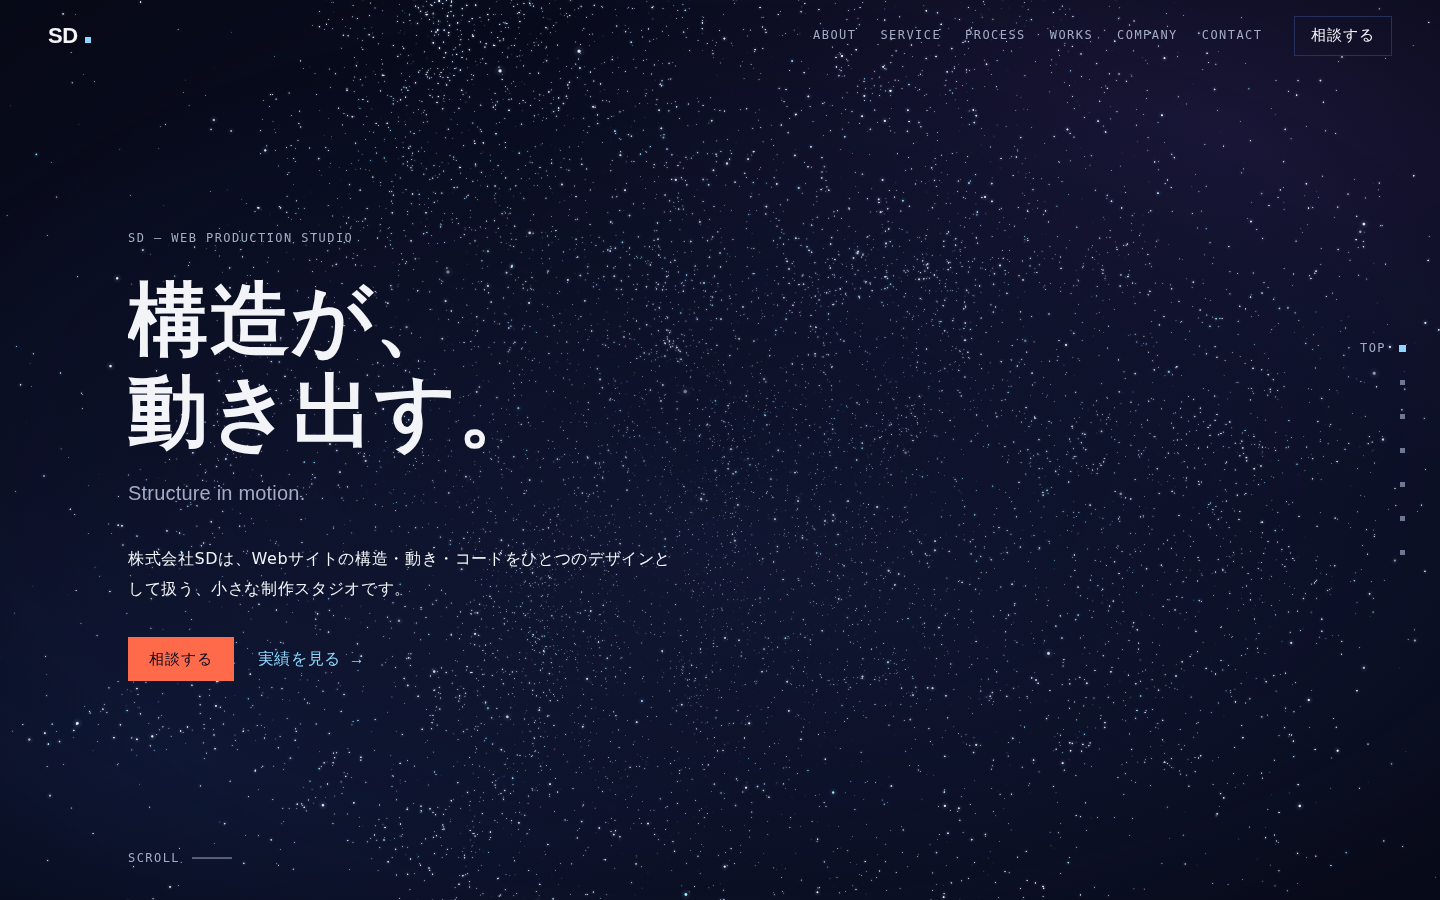
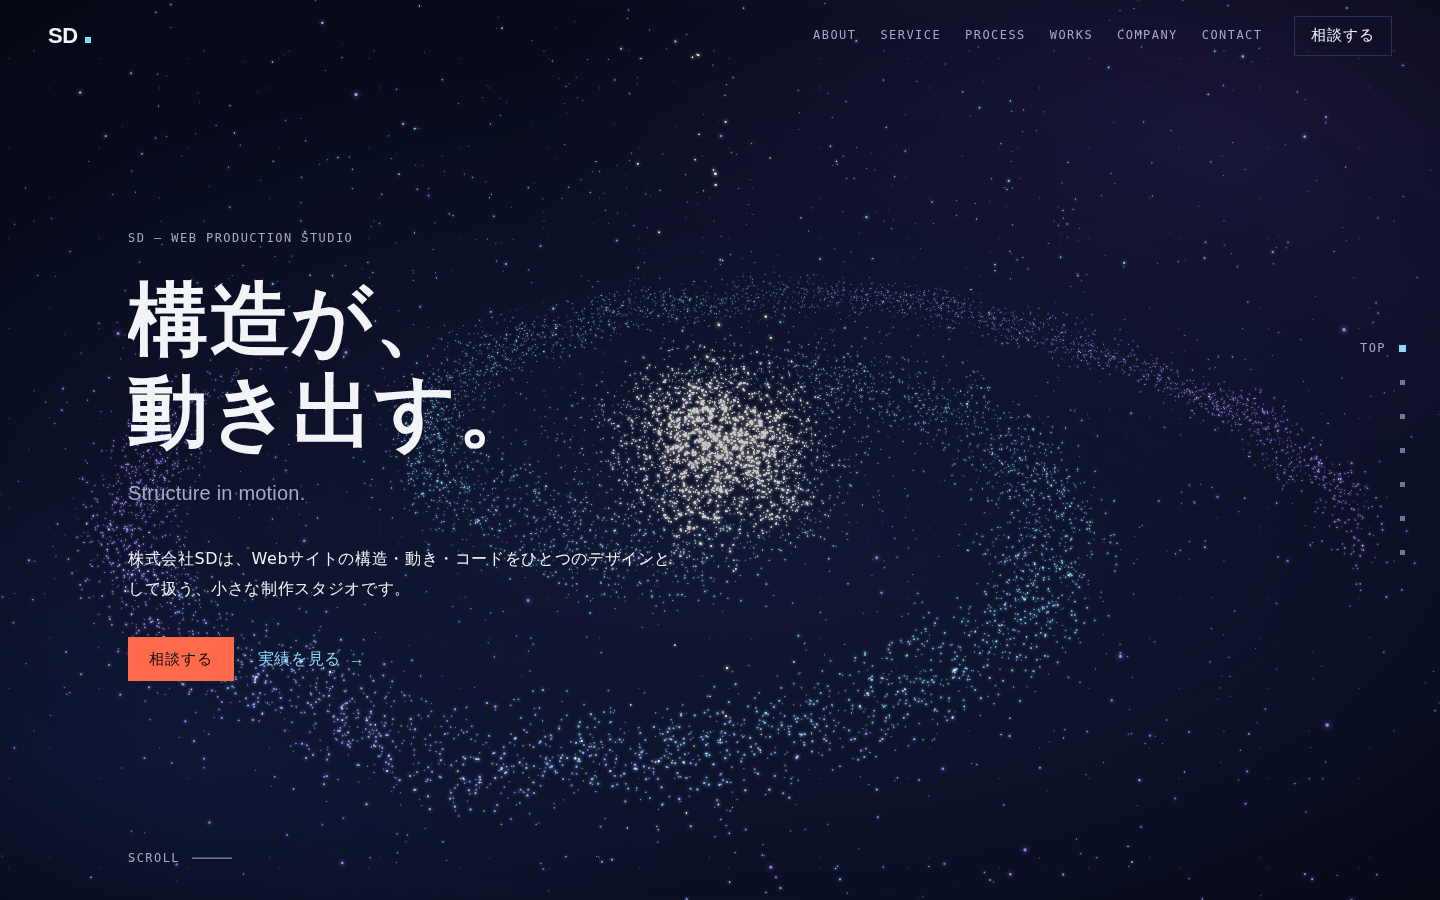
Turn the hero point cloud into a spiral galaxy
- T0 target is now a two-arm spiral disc with a core bulge and halo
  stars; per-point radial attribute drives a warm-core → cyan-arm →
  violet-rim colour ramp and a brighter core while the target dominates
- Hero camera looks down onto the disc and hands off to About; on mobile
  the galaxy is lifted above the headline for the hero only
- Faint distant star layer in the CSS background; hero scrim lightened
- OG image and reference screenshots regenerated

Claude-Session: https://claude.ai/code/session_01Fd1mfAUBwXNiZSSwWGqTG3

diff --git a/src/three/targets.ts b/src/three/targets.ts
@@ -15,6 +15,8 @@ export type TargetSet = {
   ring: Float32Array;
   seed: Float32Array;
   cluster: Float32Array;
+  /** 0 at the galaxy core, 1 at the rim (colour ramp for the T0 target) */
+  gal: Float32Array;
   idxLattice: Uint32Array;
   idxKnot: Uint32Array;
 };
@@ -43,28 +45,6 @@ export function mulberry32(seed: number): () => number {
   };
 }
 
-/* ---- small CPU value noise (for clumping the cloud) ---- */
-function hash3(x: number, y: number, z: number): number {
-  let h = (x * 374761393 + y * 668265263 + z * 2147483647) | 0;
-  h = Math.imul(h ^ (h >>> 13), 1274126177);
-  return ((h ^ (h >>> 16)) >>> 0) / 4294967296;
-}
-const smooth = (t: number) => t * t * (3 - 2 * t);
-function vnoise(x: number, y: number, z: number): number {
-  const xi = Math.floor(x), yi = Math.floor(y), zi = Math.floor(z);
-  const xf = smooth(x - xi), yf = smooth(y - yi), zf = smooth(z - zi);
-  const l = (a: number, b: number, t: number) => a + (b - a) * t;
-  const c000 = hash3(xi, yi, zi), c100 = hash3(xi + 1, yi, zi);
-  const c010 = hash3(xi, yi + 1, zi), c110 = hash3(xi + 1, yi + 1, zi);
-  const c001 = hash3(xi, yi, zi + 1), c101 = hash3(xi + 1, yi, zi + 1);
-  const c011 = hash3(xi, yi + 1, zi + 1), c111 = hash3(xi + 1, yi + 1, zi + 1);
-  return l(
-    l(l(c000, c100, xf), l(c010, c110, xf), yf),
-    l(l(c001, c101, xf), l(c011, c111, xf), yf),
-    zf,
-  ) * 2 - 1;
-}
-
 export function buildTargets(opts: TargetOptions): TargetSet {
   const S = opts.side;
   const n = S * S * S;
@@ -73,28 +53,38 @@ export function buildTargets(opts: TargetOptions): TargetSet {
   const cluster = new Float32Array(n);
   for (let i = 0; i < n; i++) seed[i] = rand();
 
-  /* T0 cloud */
+  /* T0 galaxy — spiral disc (2 arms) + core bulge + halo stars */
   const cloud = new Float32Array(n * 3);
+  const gal = new Float32Array(n);
   {
-    const R = 5.5;
+    const R = 6.0, ARMS = 2, TWIST = 1.1;
+    const gauss = () => {
+      const u1 = Math.max(rand(), 1e-6), u2 = rand();
+      return Math.sqrt(-2 * Math.log(u1)) * Math.cos(2 * Math.PI * u2);
+    };
     for (let i = 0; i < n; i++) {
-      const u = rand();
-      const r = R * Math.cbrt(u);
-      const z = rand() * 2 - 1;
-      const a = rand() * Math.PI * 2;
-      const s = Math.sqrt(1 - z * z);
-      const dx = s * Math.cos(a), dy = s * Math.sin(a), dz = z;
-      let px = dx * r, py = dy * r, pz = dz * r;
-      // clump into nebula-like knots
-      const k = 0.35;
-      px += vnoise(px * k + 11.3, py * k, pz * k) * 1.8;
-      py += vnoise(px * k, py * k + 7.1, pz * k) * 1.8;
-      pz += vnoise(px * k, py * k, pz * k + 3.7) * 1.8;
+      let px: number, py: number, pz: number;
       if (i % 7 === 0) {
-        const hr = 6 + rand() * 3;
-        px = dx * hr; py = dy * hr; pz = dz * hr;
+        // halo: sparse stars around and above the disc
+        const z = rand() * 2 - 1, a = rand() * Math.PI * 2, sx = Math.sqrt(1 - z * z);
+        const r = 4 + rand() * 5;
+        px = sx * Math.cos(a) * r; py = z * r * 0.6; pz = sx * Math.sin(a) * r;
+      } else if (i % 5 === 0) {
+        // core bulge
+        px = gauss() * 0.7; py = gauss() * 0.4; pz = gauss() * 0.7;
+      } else {
+        // spiral arms: denser towards the centre, angular scatter grows inward
+        const r = R * Math.pow(rand(), 0.55);
+        const arm = i % ARMS;
+        const t = 1 - r / R;
+        const angle = arm * ((2 * Math.PI) / ARMS) + r * TWIST + gauss() * (0.12 + 0.22 * t);
+        const rs = gauss() * 0.18;
+        px = (r + rs) * Math.cos(angle);
+        pz = (r + rs) * Math.sin(angle);
+        py = gauss() * (0.05 + 0.3 * t);
       }
       cloud[i * 3] = px; cloud[i * 3 + 1] = py; cloud[i * 3 + 2] = pz;
+      gal[i] = Math.min(1, Math.hypot(px, pz) / R);
     }
   }
 
@@ -247,7 +237,7 @@ export function buildTargets(opts: TargetOptions): TargetSet {
   }
 
   return {
-    n, cloud, sphere, lattice, grid, knot, slab, ring, seed, cluster,
+    n, cloud, sphere, lattice, grid, knot, slab, ring, seed, cluster, gal,
     idxLattice: new Uint32Array(lat),
     idxKnot: new Uint32Array(kn),
   };

diff --git a/src/three/scene.ts b/src/three/scene.ts
@@ -68,6 +68,7 @@ export function createScene(canvas: HTMLCanvasElement, opts: { isMobile: boolean
   geo.setAttribute('aRing', attr(targets.ring, 3));
   geo.setAttribute('aSeed', attr(targets.seed, 1));
   geo.setAttribute('aCluster', attr(targets.cluster, 1));
+  geo.setAttribute('aGal', attr(targets.gal, 1));
   // generous bounding sphere: never frustum-cull the cloud
   geo.boundingSphere = new THREE.Sphere(new THREE.Vector3(), 12);
 
@@ -92,6 +93,9 @@ export function createScene(canvas: HTMLCanvasElement, opts: { isMobile: boolean
     uFog: { value: 0.055 },
     uColorA: { value: COLORS.base.clone() },
     uColorB: { value: COLORS.primary.clone() },
+    uGalCore: { value: new THREE.Color('#ffe9c4') },
+    uGalArm: { value: new THREE.Color('#8ad8ff') },
+    uGalRim: { value: new THREE.Color('#a98bff') },
     uClusterLit: { value: new Float32Array(4) },
     uGlow: { value: 1 },
     uSizeMul: { value: 1 },
@@ -110,7 +114,7 @@ export function createScene(canvas: HTMLCanvasElement, opts: { isMobile: boolean
       premultipliedAlpha: true,
     });
   const pointsMat = mkMaterial({}, 1);
-  const glowMat = mkMaterial({}, 0.08, 3); // halo pass: 3x size, 8% alpha
+  const glowMat = mkMaterial({}, 0.12, 3); // halo pass: 3x size, 12% alpha
   const lineMat = mkMaterial({ LINE: '' }, 1);
 
   const points = new THREE.Points(geo, pointsMat);
@@ -197,7 +201,7 @@ export function createScene(canvas: HTMLCanvasElement, opts: { isMobile: boolean
     mouse.y += (mouse.ty - mouse.y) * 0.05;
     idleY += S.idleSpeed * dt + (parallaxEnabled ? mouse.x * 0.06 * dt : 0);
     group.rotation.set(S.rotX, idleY + S.rotY, 0);
-    group.position.y = S.groupY + (opts.isMobile ? 0.6 : 0);
+    group.position.y = S.groupY + (opts.isMobile ? 0.8 : 0); // mobile: object sits above the text
     const breathe = 1 + 0.015 * Math.sin(time * 0.8);
     group.scale.setScalar(BASE_SCALE * breathe);
 

diff --git a/src/scroll/sections.ts b/src/scroll/sections.ts
@@ -66,7 +66,10 @@ export function setupSections(o: SectionsOptions): () => void {
   /* ---------- 1. Hero — 点 ---------- */
   {
     const tl = sectionTimeline('hero');
-    seg(tl, 0, 1, { camZ: 9, pointSize: 2.2 }, { camZ: 7.6, pointSize: 2.0 });
+    // mobile: lift the (large) galaxy above the headline, settle to 0 before About
+    const heroY = o.shift ? 0 : 1.2;
+    S.groupY = heroY;
+    seg(tl, 0, 1, { camX: 0, camY: 4.2, camZ: 8.0, pointSize: 2.6, groupY: heroY }, { camX: 0.4, camY: 2.6, camZ: 7.4, pointSize: 2.0, groupY: 0 });
     seg(tl, 0.75, 1, { w0: 1, w1: 0 }, { w0: 0.6, w1: 0.4 });
     tl.fromTo('#hero-inner', { y: 0, opacity: 1 }, { y: -80, opacity: 0, duration: 0.6, immediateRender: false }, EPS);
     tls.push(tl);
@@ -75,8 +78,8 @@ export function setupSections(o: SectionsOptions): () => void {
   /* ---------- 2. About — 核 ---------- */
   {
     const tl = sectionTimeline('about');
-    seg(tl, 0, 0.35, { w0: 0.6, w1: 0.4, noise: 0.35, accentMix: 0.1 }, { w0: 0, w1: 1, noise: 0.08, accentMix: 0.25 });
-    seg(tl, 0, 0.4, { camX: 0, camY: 0.2, camZ: 7.6, tX: 0 }, { camX: 1.2, camY: 0.6, camZ: 6.5, tX: X_ABOUT });
+    seg(tl, 0, 0.35, { w0: 0.6, w1: 0.4, noise: 0.12, accentMix: 0.1 }, { w0: 0, w1: 1, noise: 0.08, accentMix: 0.25 });
+    seg(tl, 0, 0.4, { camX: 0.4, camY: 2.6, camZ: 7.4, tX: 0 }, { camX: 1.2, camY: 0.6, camZ: 6.5, tX: X_ABOUT });
     seg(tl, 0, 1, { rotY: 0 }, { rotY: 0.4 });
     bg(tl, 0, 0.4, { '--bg-x': '50%', '--bg-y': '60%' }, { '--bg-x': '62%', '--bg-y': '45%' });
     seg(tl, 0.8, 1, { w1: 1, w2: 0 }, { w1: 0.5, w2: 0.5 });

diff --git a/src/three/shaders.ts b/src/three/shaders.ts
@@ -56,6 +56,7 @@ attribute vec3 aSlab;
 attribute vec3 aRing;
 attribute float aSeed;
 attribute float aCluster;
+attribute float aGal;
 
 uniform float uW[7];
 uniform float uTime;
@@ -69,6 +70,9 @@ uniform float uAccentMix;
 uniform float uFog;
 uniform vec3 uColorA;
 uniform vec3 uColorB;
+uniform vec3 uGalCore;
+uniform vec3 uGalArm;
+uniform vec3 uGalRim;
 uniform float uClusterLit[4];
 
 varying vec3 vColor;
@@ -98,6 +102,11 @@ void main() {
   vec3 col = mix(uColorA, uColorB, accent);
   col = mix(col, uColorB, lit * 0.85);
   col *= 1.0 + 0.2 * step(0.7, aSeed);
+  // galaxy ramp (only while the T0 target dominates): warm core → cyan arms → violet rim
+  vec3 gcol = mix(uGalCore, uGalArm, smoothstep(0.0, 0.45, aGal));
+  gcol = mix(gcol, uGalRim, smoothstep(0.6, 1.0, aGal));
+  gcol *= 1.0 + 0.7 * (1.0 - smoothstep(0.0, 0.3, aGal));
+  col = mix(col, gcol, uW[0]);
   vColor = col;
 
   float d = -mv.z;
@@ -107,7 +116,8 @@ void main() {
   #ifdef LINE
     vAlpha *= 0.9;
   #else
-    gl_PointSize = uPointSize * uSizeMul * uDpr * (0.7 + 0.7 * aSeed) * (1.0 + 0.35 * lit) * (6.0 / d);
+    float core = uW[0] * (1.0 - smoothstep(0.0, 0.25, aGal));
+    gl_PointSize = uPointSize * uSizeMul * uDpr * (0.7 + 0.7 * aSeed) * (1.0 + 0.35 * lit) * (1.0 + 0.7 * core) * (6.0 / d);
   #endif
   gl_Position = projectionMatrix * mv;
 }

diff --git a/src/styles/base.css b/src/styles/base.css
@@ -58,6 +58,16 @@ hr { border: 0; }
   content: ""; position: absolute; inset: 0;
   background: radial-gradient(90% 90% at 50% 50%, transparent 55%, rgba(0, 0, 0, 0.42) 100%);
 }
+.bg-stars {
+  position: absolute; inset: 0; opacity: 0.16;
+  background-image:
+    radial-gradient(circle at 20% 30%, #f2f4f7 0.6px, transparent 1.2px),
+    radial-gradient(circle at 70% 60%, #8ad8ff 0.6px, transparent 1.2px),
+    radial-gradient(circle at 45% 80%, #f2f4f7 0.5px, transparent 1px),
+    radial-gradient(circle at 85% 15%, #f0c674 0.5px, transparent 1px),
+    radial-gradient(circle at 10% 65%, #f2f4f7 0.4px, transparent 0.9px);
+  background-size: 170px 170px, 260px 260px, 110px 110px, 340px 340px, 90px 90px;
+}
 .bg-fallback {
   position: absolute; inset: 0; display: none; opacity: 0.18;
   background-image:

diff --git a/src/styles/sections.css b/src/styles/sections.css
@@ -8,7 +8,7 @@
 .scrim-l::before { background: linear-gradient(90deg, rgba(8, 11, 28, 0.78) 0%, rgba(8, 11, 28, 0.55) 45%, transparent 75%); }
 .scrim-r::before { background: linear-gradient(270deg, rgba(8, 11, 28, 0.78) 0%, rgba(8, 11, 28, 0.55) 45%, transparent 75%); }
 .scrim-c::before { background: radial-gradient(60% 50% at 50% 50%, rgba(8, 11, 28, 0.7) 0%, transparent 100%); }
-.section--hero::before { opacity: 0.5; }
+.section--hero::before { opacity: 0.35; }
 @media (max-width: 767px) {
   .scrim-l::before, .scrim-r::before {
     background: linear-gradient(180deg, transparent 0%, rgba(8, 11, 28, 0.7) 30%, rgba(8, 11, 28, 0.85) 100%);

diff --git a/src/three/state.ts b/src/three/state.ts
@@ -5,8 +5,8 @@
 export const sceneState = {
   // morph weights: cloud, sphere, lattice, grid, knot, slab, ring
   w0: 1, w1: 0, w2: 0, w3: 0, w4: 0, w5: 0, w6: 0,
-  noise: 0.35,
-  pointSize: 2.2,
+  noise: 0.12,
+  pointSize: 2.6,
   opacity: 1,
   lineOpacity: 0,
   lineDraw: 1,
@@ -21,7 +21,7 @@ export const sceneState = {
   idleSpeed: 0.04,
   knotOpacity: 0,
   slabOpacity: 0,
-  camX: 0, camY: 0.2, camZ: 9,
+  camX: 0, camY: 4.2, camZ: 8.0,
   tX: 0, tY: 0, tZ: 0,
   fov: 42,
 };

diff --git a/index.html b/index.html
@@ -34,6 +34,7 @@
     <a class="skip-link" href="#main">本文へスキップ</a>
 
     <div class="bg" aria-hidden="true">
+      <div class="bg-stars"></div>
       <div class="bg-fallback"></div>
     </div>
     <canvas id="scene" class="scene" aria-hidden="true" tabindex="-1"></canvas>
